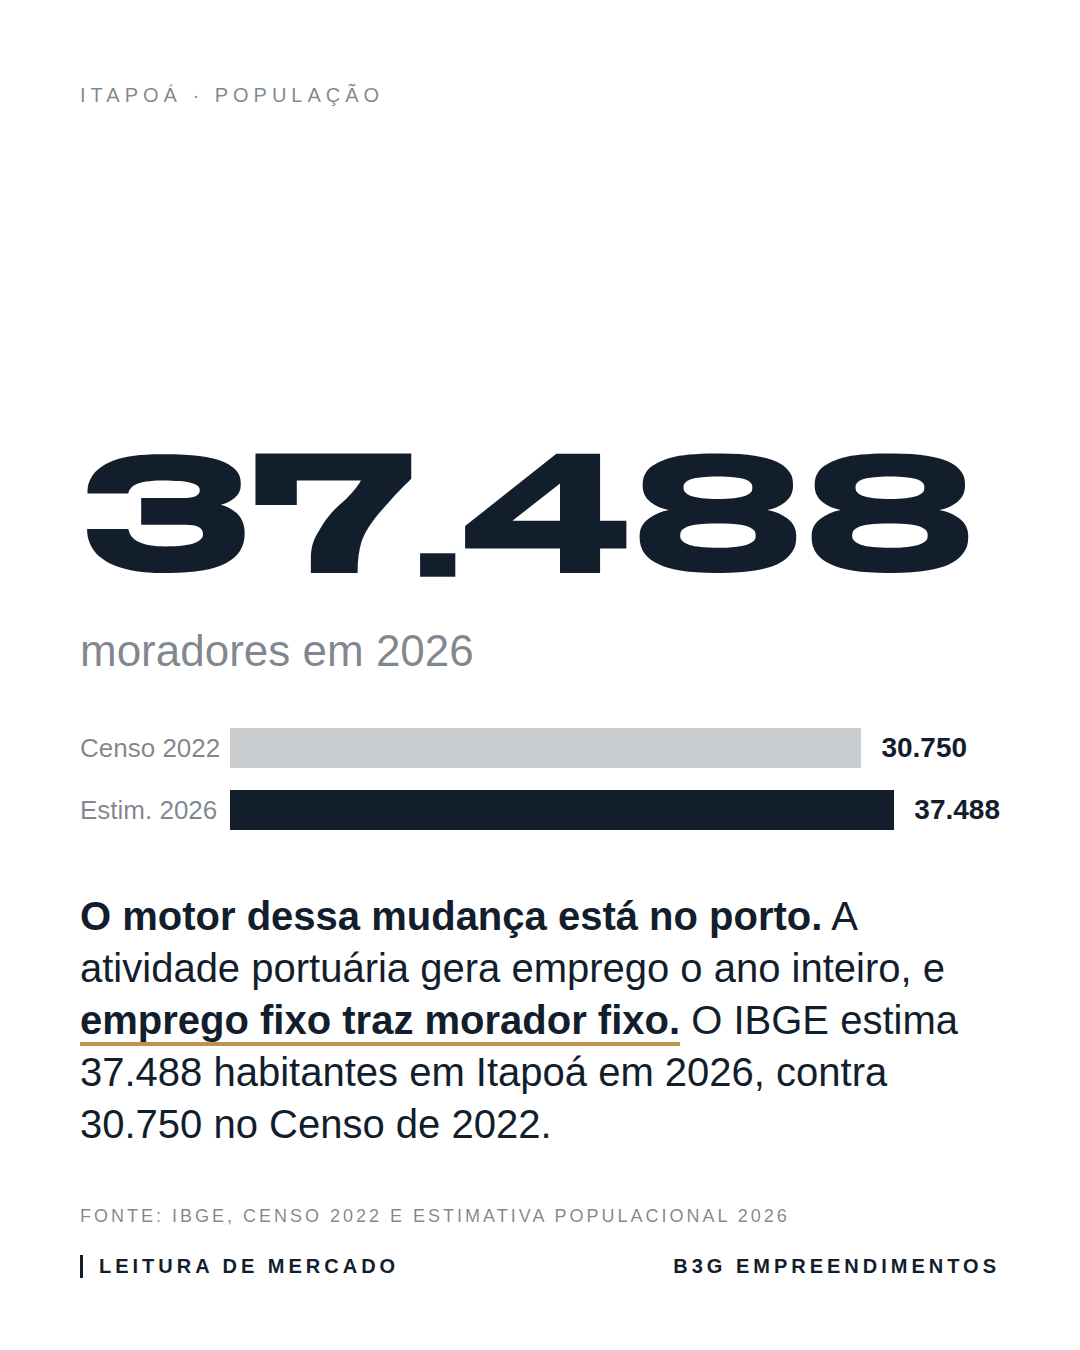
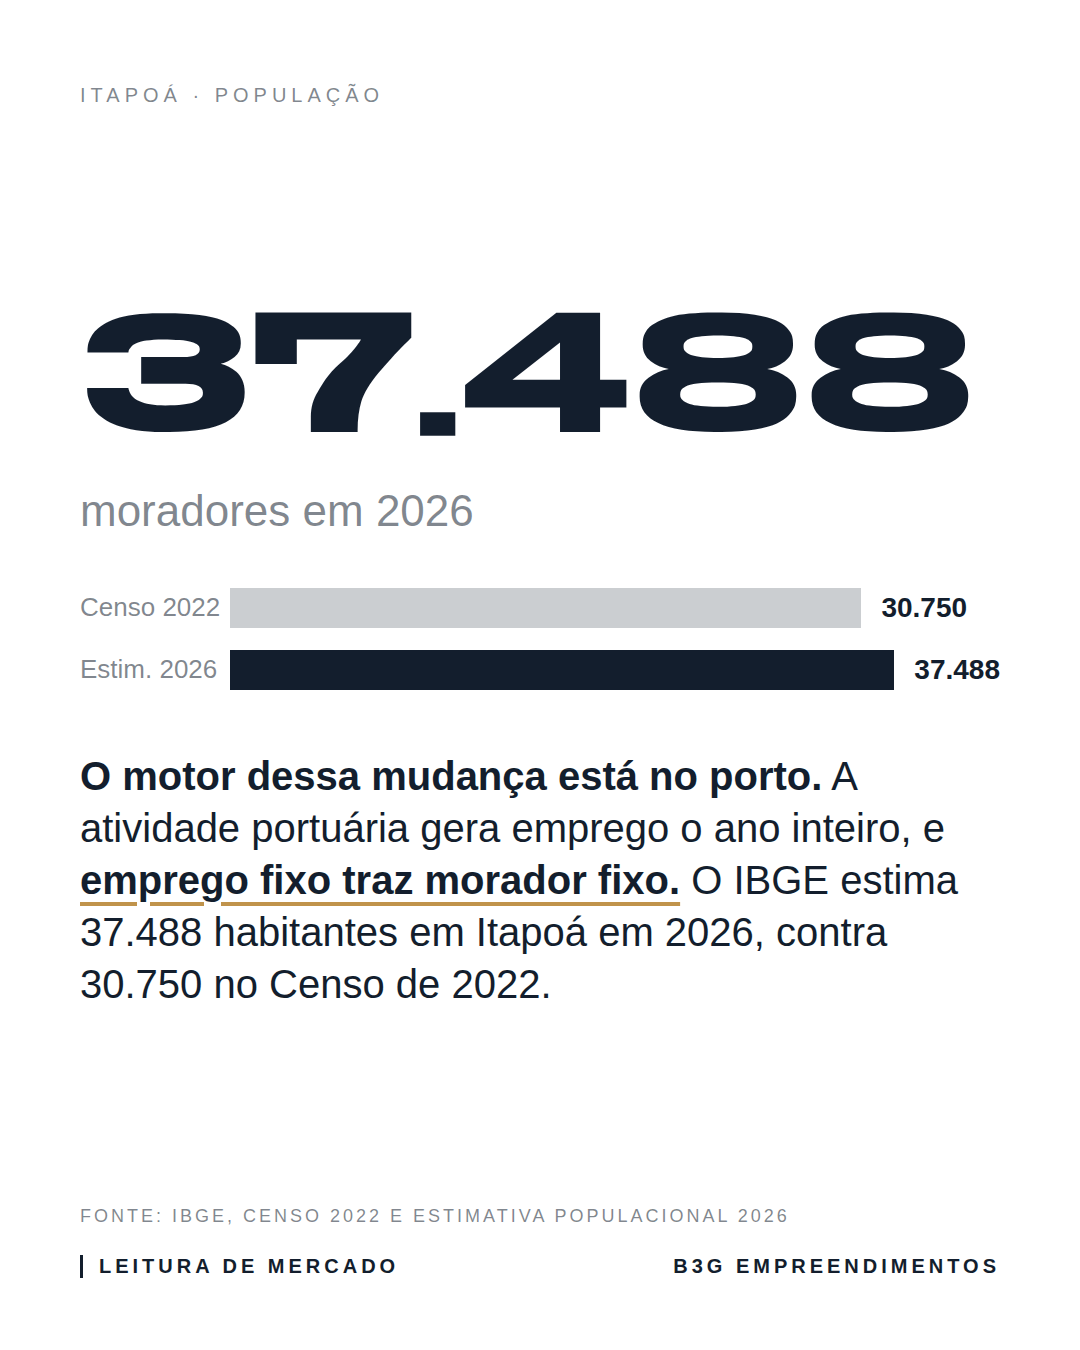
Center content vertically on flat-background slides
Claude-Session: https://claude.ai/code/session_01MkJUPckMk2A57CZdQx2khj

Changed region(s): [[0.0611, 0.2178, 0.9472, 0.84]]

diff --git a/b3g-carrosseis/conteudo/carrosseis/itapoa-cidade-de-predios/instagram/slide-02.html b/b3g-carrosseis/conteudo/carrosseis/itapoa-cidade-de-predios/instagram/slide-02.html
@@ -12,6 +12,7 @@ body.dourado{background:#C0934B;color:#131E2D;--sec:rgba(19,30,45,.7);--bar1:rgb
 .rotulo{position:absolute;top:84px;left:80px;right:80px;display:flex;justify-content:space-between;align-items:center;font-size:20px;letter-spacing:5px;text-transform:uppercase;color:var(--sec);z-index:3}
 .logo{width:150px;display:block}
 .corpo{position:absolute;left:80px;right:80px;bottom:200px;z-index:3}
+body.claro .corpo,body.dourado .corpo,body.navy .corpo{top:150px;bottom:190px;display:flex;flex-direction:column;justify-content:center}
 .big{font-family:"Stretch Pro",Arial,sans-serif;line-height:.95;letter-spacing:.005em;display:flex;align-items:baseline;gap:28px;flex-wrap:wrap}
 .big .n{font-size:190px;word-spacing:-.3em}
 .big .u{font-family:Arial,sans-serif;font-size:44px;color:var(--sec);letter-spacing:0}

diff --git a/b3g-carrosseis/conteudo/carrosseis/itapoa-cidade-de-predios/instagram/slide-03.html b/b3g-carrosseis/conteudo/carrosseis/itapoa-cidade-de-predios/instagram/slide-03.html
@@ -12,6 +12,7 @@ body.dourado{background:#C0934B;color:#131E2D;--sec:rgba(19,30,45,.7);--bar1:rgb
 .rotulo{position:absolute;top:84px;left:80px;right:80px;display:flex;justify-content:space-between;align-items:center;font-size:20px;letter-spacing:5px;text-transform:uppercase;color:var(--sec);z-index:3}
 .logo{width:150px;display:block}
 .corpo{position:absolute;left:80px;right:80px;bottom:200px;z-index:3}
+body.claro .corpo,body.dourado .corpo,body.navy .corpo{top:150px;bottom:190px;display:flex;flex-direction:column;justify-content:center}
 .big{font-family:"Stretch Pro",Arial,sans-serif;line-height:.95;letter-spacing:.005em;display:flex;align-items:baseline;gap:28px;flex-wrap:wrap}
 .big .n{font-size:190px;word-spacing:-.3em}
 .big .u{font-family:Arial,sans-serif;font-size:44px;color:var(--sec);letter-spacing:0}

diff --git a/b3g-carrosseis/conteudo/carrosseis/itapoa-cidade-de-predios/instagram/slide-04.html b/b3g-carrosseis/conteudo/carrosseis/itapoa-cidade-de-predios/instagram/slide-04.html
@@ -12,6 +12,7 @@ body.dourado{background:#C0934B;color:#131E2D;--sec:rgba(19,30,45,.7);--bar1:rgb
 .rotulo{position:absolute;top:84px;left:80px;right:80px;display:flex;justify-content:space-between;align-items:center;font-size:20px;letter-spacing:5px;text-transform:uppercase;color:var(--sec);z-index:3}
 .logo{width:150px;display:block}
 .corpo{position:absolute;left:80px;right:80px;bottom:200px;z-index:3}
+body.claro .corpo,body.dourado .corpo,body.navy .corpo{top:150px;bottom:190px;display:flex;flex-direction:column;justify-content:center}
 .big{font-family:"Stretch Pro",Arial,sans-serif;line-height:.95;letter-spacing:.005em;display:flex;align-items:baseline;gap:28px;flex-wrap:wrap}
 .big .n{font-size:190px;word-spacing:-.3em}
 .big .u{font-family:Arial,sans-serif;font-size:44px;color:var(--sec);letter-spacing:0}

diff --git a/b3g-carrosseis/conteudo/carrosseis/itapoa-cidade-de-predios/instagram/slide-01.html b/b3g-carrosseis/conteudo/carrosseis/itapoa-cidade-de-predios/instagram/slide-01.html
@@ -12,6 +12,7 @@ body.dourado{background:#C0934B;color:#131E2D;--sec:rgba(19,30,45,.7);--bar1:rgb
 .rotulo{position:absolute;top:84px;left:80px;right:80px;display:flex;justify-content:space-between;align-items:center;font-size:20px;letter-spacing:5px;text-transform:uppercase;color:var(--sec);z-index:3}
 .logo{width:150px;display:block}
 .corpo{position:absolute;left:80px;right:80px;bottom:200px;z-index:3}
+body.claro .corpo,body.dourado .corpo,body.navy .corpo{top:150px;bottom:190px;display:flex;flex-direction:column;justify-content:center}
 .big{font-family:"Stretch Pro",Arial,sans-serif;line-height:.95;letter-spacing:.005em;display:flex;align-items:baseline;gap:28px;flex-wrap:wrap}
 .big .n{font-size:190px}
 .big .u{font-family:Arial,sans-serif;font-size:44px;color:var(--sec);letter-spacing:0}

diff --git a/b3g-carrosseis/conteudo/carrosseis/itapoa-cidade-de-predios/instagram/slide-05.html b/b3g-carrosseis/conteudo/carrosseis/itapoa-cidade-de-predios/instagram/slide-05.html
@@ -12,6 +12,7 @@ body.dourado{background:#C0934B;color:#131E2D;--sec:rgba(19,30,45,.7);--bar1:rgb
 .rotulo{position:absolute;top:84px;left:80px;right:80px;display:flex;justify-content:space-between;align-items:center;font-size:20px;letter-spacing:5px;text-transform:uppercase;color:var(--sec);z-index:3}
 .logo{width:150px;display:block}
 .corpo{position:absolute;left:80px;right:80px;bottom:200px;z-index:3}
+body.claro .corpo,body.dourado .corpo,body.navy .corpo{top:150px;bottom:190px;display:flex;flex-direction:column;justify-content:center}
 .big{font-family:"Stretch Pro",Arial,sans-serif;line-height:.95;letter-spacing:.005em;display:flex;align-items:baseline;gap:28px;flex-wrap:wrap}
 .big .n{font-size:190px}
 .big .u{font-family:Arial,sans-serif;font-size:44px;color:var(--sec);letter-spacing:0}
